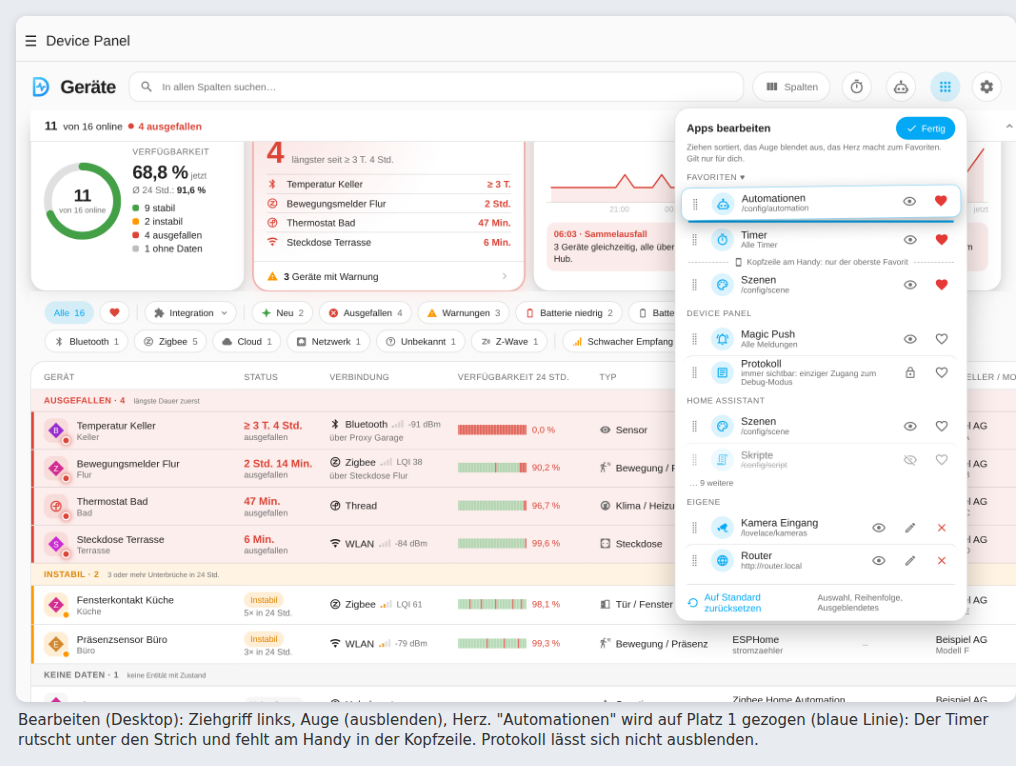
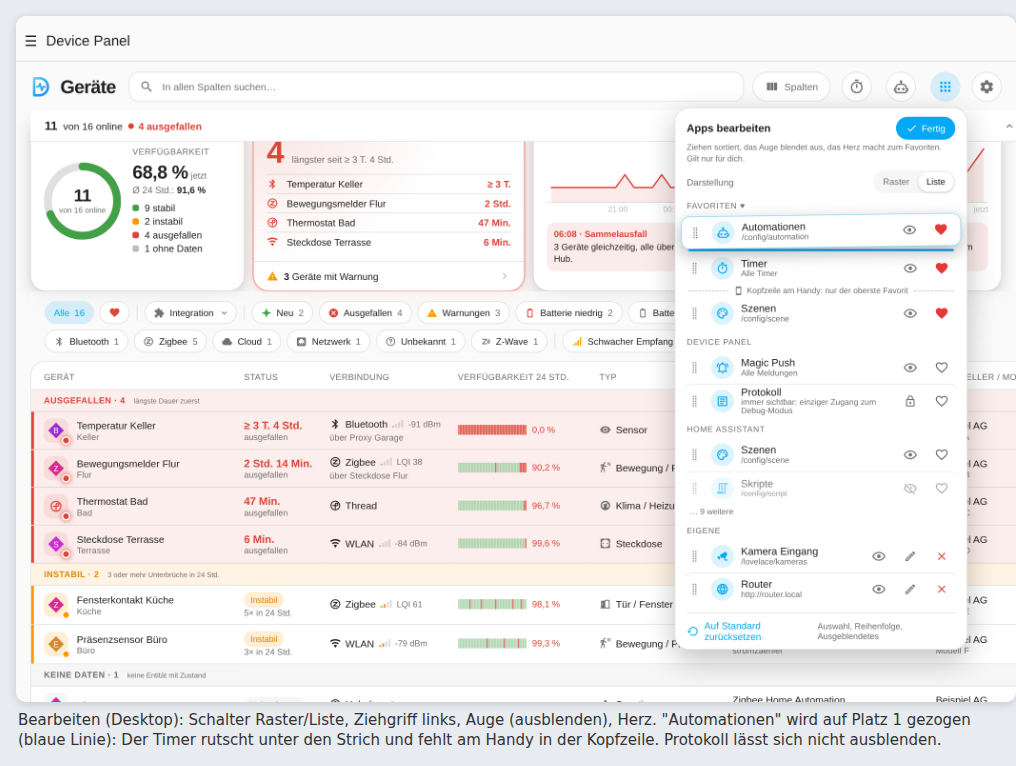
Mockups launcher-v2: Schalter Raster/Liste im Bearbeiten-Modus, Listenansicht
Claude-Session: https://claude.ai/code/session_01U1q7hu4Br2u4E6fFdEJMgU

Changed region(s): [[0.6713, 0.2102, 0.9459, 0.8708], [0.0305, 0.9308, 0.9764, 0.9909], [0.8848, 0.4804, 0.9459, 0.6005]]

diff --git a/docs/mockups/launcher-v2/README.md b/docs/mockups/launcher-v2/README.md
@@ -13,8 +13,14 @@ Entscheide des Nutzers zu launcher-v1 (2026-10-13):
 - `1-Launcher.png`: Launcher normal: Desktop (Favoriten mit senkrechtem Strich nach dem ersten) und Handy (Blatt, Kopfzeile nur mit dem Timer)
 - `2-Bearbeiten-Desktop.png`: Bearbeiten-Modus: Ziehgriff, Auge, Herz, waagrechter Strich "Kopfzeile am Handy", gezogener Eintrag
 - `3-Bearbeiten-Handy.png`: Bearbeiten-Modus auf dem Handy (44 px Zeilen)
+- `4-Liste.png`: Darstellung "Liste" (Desktop), mit demselben Strich, waagrecht
+
+6. Nachtrag: Der Benutzer wählt **Raster oder Liste** selbst, mit einem Schalter ("Darstellung") im Bearbeiten-Modus.
 
 ## Verhalten
+
+- **Darstellung**: Schalter Raster/Liste (Reiterleiste mit gleitender Kapsel) oben im Bearbeiten-Modus. Standard Raster. Gespeichert pro Benutzer
+  und getrennt für Desktop und Handy (wie die Ansicht der Geräteliste). Der Bearbeiten-Modus selbst zeigt immer die Liste (zum Ziehen).
 
 - **Favoriten**: Das Herz hängt einen Eintrag hinten an. Der **erste** Favorit steht am Handy in der Kopfzeile, auf dem Desktop **alle**.
   Zieht man einen anderen auf Platz 1, übernimmt er diesen Platz in der Kopfzeile des Handys. Ein ausgeblendeter Eintrag ist auch kein Favorit mehr.
